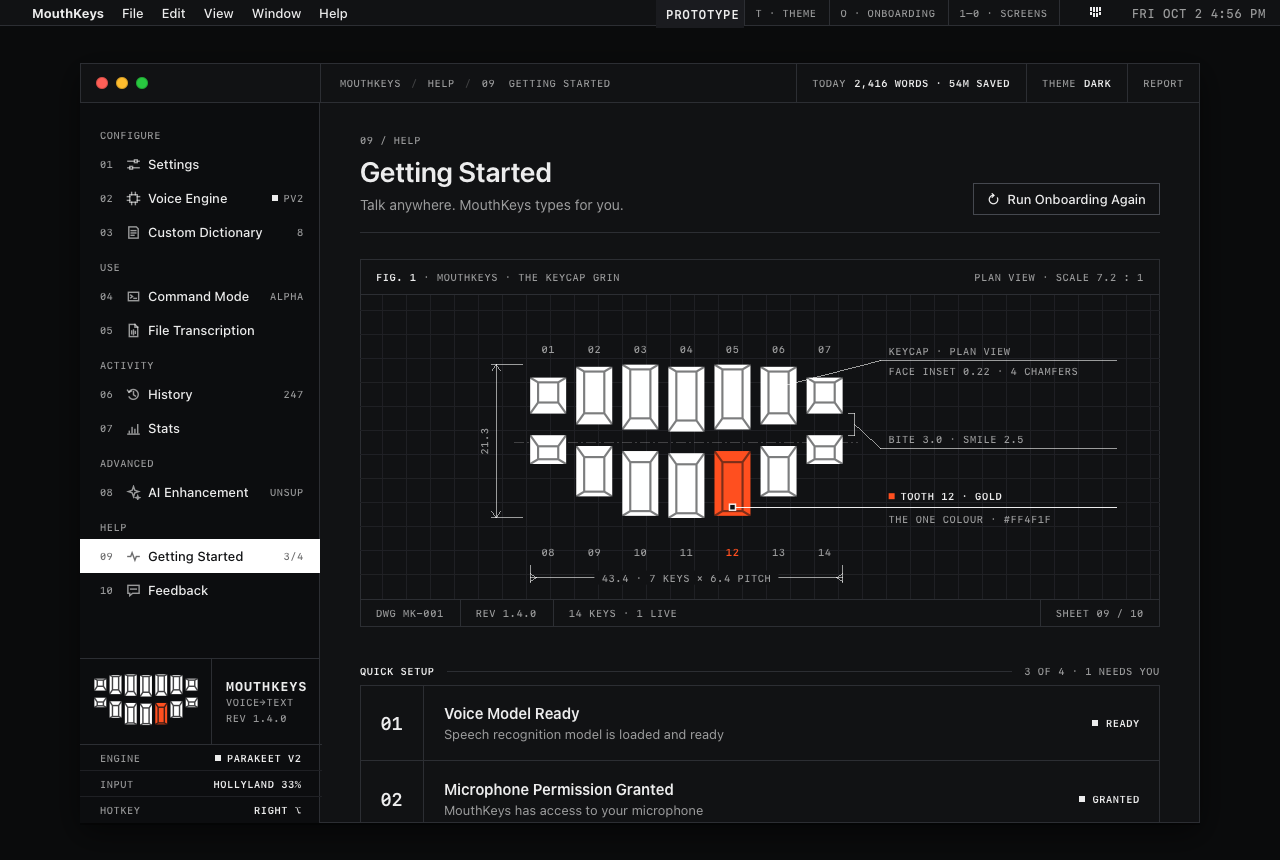
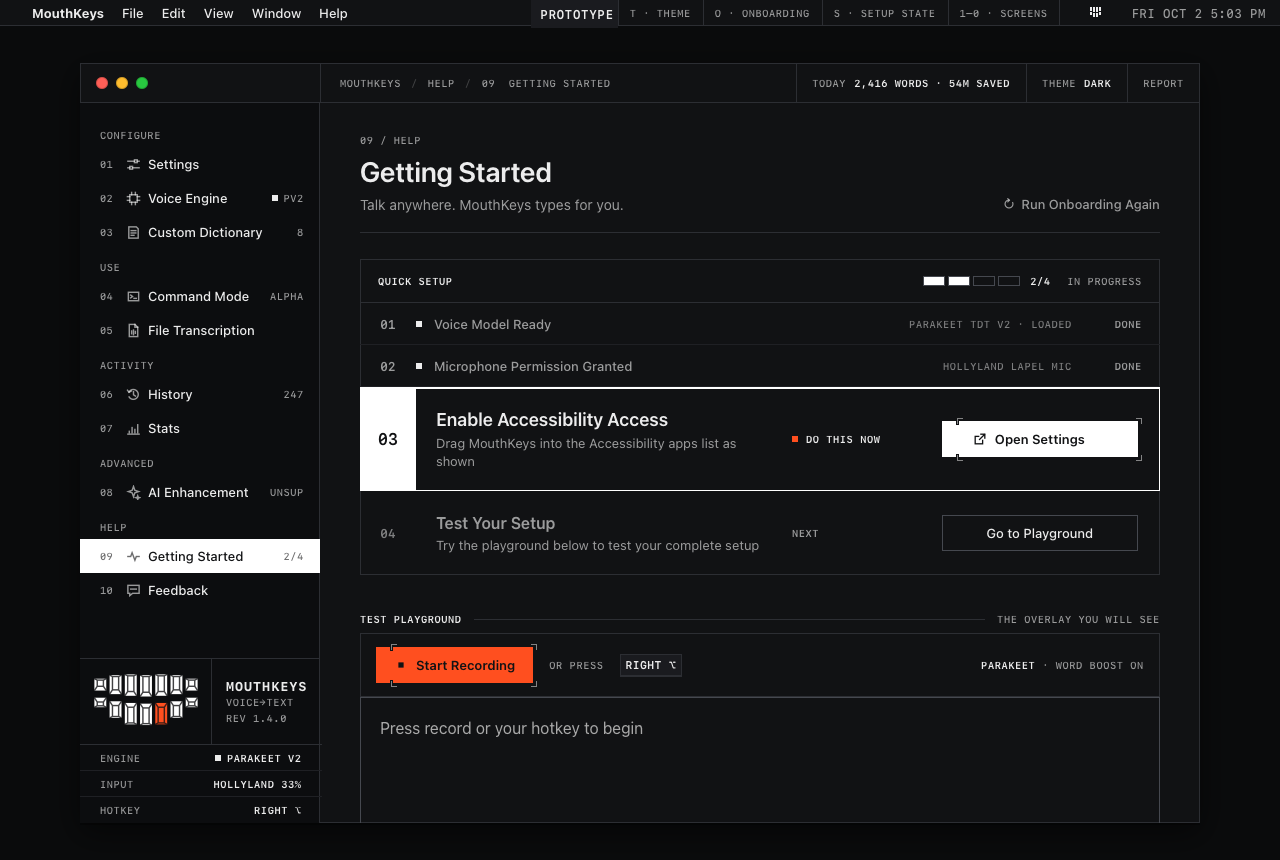
Design: Getting Started is Quick Setup, actionable (round 3)
Atin: the page had too much on it; Quick Setup must lead and feel
actionable, and Fig. 1 should go elsewhere.

- Quick Setup sits above the fold: done steps collapse to one quiet
  line, the step to do now is outlined with an inverted number, DO THIS
  NOW and its action bracketed at rest; later steps wait with an
  outlined button; a 4-cell progress readout. Fresh install reads
  "Welcome to MouthKeys"; all done shows a one-line you're-set row.
- Then the playground with the live overlay pill. How to Use is cut.
- Fig. 1 moved to the wizard Welcome step (already there) and an About
  section at the foot of Feedback. The sidebar stamp stays.
- Prototype: S cycles the setup state; shots for fresh, in progress and
  all done in both themes.

diff --git a/design/app-signal/index.html b/design/app-signal/index.html
@@ -706,6 +706,46 @@ input { font: inherit; color: inherit; border-radius: 0; outline: none; }
 .menu .mh .mh-mark .grin { width: 26px; height: auto; }
 .hist { grid-template-columns: 360px minmax(0, 1fr); }
 
+/* =====================================================================================
+   QUICK SETUP (round 3): actionable. Done steps collapse to one quiet line; the step to do
+   now is outlined in ink with its action bracketed at rest; later steps wait with an outlined button.
+   ===================================================================================== */
+.setup { box-shadow: inset 0 0 0 1px var(--rule); margin-bottom: 34px; }
+.setup > header { height: 44px; padding: 0 18px; display: flex; align-items: center; justify-content: space-between; box-shadow: inset 0 -1px 0 var(--rule); font: 500 10px/1 var(--mono); letter-spacing: .06em; text-transform: uppercase; color: var(--text-2); }
+.setup > header b { color: var(--text); font-weight: 600; }
+.prog4 { display: inline-flex; align-items: center; gap: 10px; }
+.prog4 .cells { display: inline-flex; gap: 3px; }
+.prog4 .cells i { width: 22px; height: 10px; box-shadow: inset 0 0 0 1px var(--edge); }
+:root:not([data-theme="light"]) .prog4 .cells i { box-shadow: inset 0 0 0 1px #45484F; }
+.prog4 .cells i.f { background: var(--ink); box-shadow: none; }
+.srow { display: grid; align-items: center; box-shadow: inset 0 -1px 0 var(--rule-soft); }
+.srow:last-child { box-shadow: none; }
+.srow .n { font: 600 12px/1 var(--mono); color: var(--text-2); text-align: center; }
+.srow .s { font: 600 10px/1 var(--mono); letter-spacing: .06em; text-transform: uppercase; color: var(--text-2); display: inline-flex; align-items: center; gap: 8px; }
+.srow.done { grid-template-columns: 56px 18px 1fr auto 72px; height: 42px; color: var(--text-2); }
+.srow.done .t { font: 500 13px/1 var(--font); color: var(--text-2); }
+.srow.done .m { font: 500 10px/1 var(--mono); letter-spacing: .06em; text-transform: uppercase; color: var(--text-dim); padding-right: 16px; }
+.srow.done .s { justify-content: flex-end; padding-right: 18px; }
+.srow.todo { grid-template-columns: 56px 1fr 128px 240px; min-height: 84px; }
+.srow.todo .lbl { font: 600 16px/21px var(--font); color: var(--text); }
+.srow.todo .help { margin-top: 3px; font: 400 13px/18px var(--font); color: var(--text-2); }
+.srow.todo .b { padding: 16px 16px 16px 0; }
+.srow.todo .a { display: flex; justify-content: flex-end; padding-right: 22px; }
+.srow.todo .a .btn { min-width: 196px; }
+.srow.todo .a .btn2 { min-width: 196px; height: 36px; }
+.srow.todo:not(.now) .lbl { color: var(--text-2); }
+.srow.todo:not(.now) .n { color: var(--text-dim); }
+.srow.now { background: var(--surface); box-shadow: inset 0 0 0 1.5px var(--ink); min-height: 104px; }
+.srow.now .n { align-self: stretch; display: grid; place-items: center; background: var(--inv-bg); color: var(--inv-fg); font-size: 16px; }
+.srow.now .lbl { font-size: 18px; line-height: 23px; }
+.srow.now .b { padding-left: 20px; }
+.srow.now .s { color: var(--text); }
+.srow.todo:not(.now) .b { padding-left: 20px; }
+.srow.fin { grid-template-columns: 56px 1fr auto; height: 64px; padding-right: 18px; }
+.srow.fin .n svg { width: 16px; height: 16px; color: var(--text); }
+.srow.fin .t { font: 500 15px/1 var(--font); color: var(--text); display: inline-flex; align-items: center; gap: 8px; }
+.setup.all > header .prog4 b { color: var(--text); }
+
 </style>
 </head>
 <body>
@@ -715,6 +755,7 @@ input { font: inherit; color: inherit; border-radius: 0; outline: none; }
   <span class="tag">Prototype</span>
   <button id="proto-theme">T · Theme</button>
   <button data-wiz-open>O · Onboarding</button>
+  <button id="proto-setup">S · Setup state</button>
   <span>1–0 · Screens</span>
 </div><button class="mb-mark" title="MouthKeys" aria-label="MouthKeys menu"></button><span class="clock"></span></div>
 </div>
@@ -1037,34 +1078,46 @@ const ovRef = (o = {}) => `
 function appIconC11() { return '<svg width="16" height="16" viewBox="0 0 20 20" style="display:block"><rect width="20" height="20" rx="4.5" fill="#0D0F14"/><rect x="0.5" y="0.5" width="19" height="19" rx="4" fill="none" stroke="rgba(255,255,255,0.18)"/><path d="M5.6 6.8 L8.8 10 L5.6 13.2" fill="none" stroke="#E8EAF0" stroke-width="1.6" stroke-linecap="round" stroke-linejoin="round"/><path d="M10.4 13.2 H14.4" stroke="#E8EAF0" stroke-width="1.6" stroke-linecap="round"/></svg>'; }
 
 // =================================================================================== 09 GETTING STARTED
+// Quick Setup: four steps from WelcomeView. state = how many are done, in order (0 fresh install ... 4 all done).
+const SETUP = [
+  { todo: "Download Voice Model", todoHelp: "Download the AI model for offline voice transcription (~500MB)", done: "Voice Model Ready", doneMeta: "Parakeet TDT v2 · loaded", act: "Go to Voice Engine", attr: 'data-go="engine"', icon: "down" },
+  { todo: "Grant Microphone Permission", todoHelp: "Allow MouthKeys to access your microphone for voice input", done: "Microphone Permission Granted", doneMeta: "Hollyland Lapel Mic", act: "Grant Access", icon: "mic" },
+  { todo: "Enable Accessibility Access", todoHelp: "Drag MouthKeys into the Accessibility apps list as shown", done: "Accessibility Access Enabled", doneMeta: "Typing into apps", act: "Open Settings", icon: "ext" },
+  { todo: "Test Your Setup", todoHelp: "Try the playground below to test your complete setup", done: "Setup Tested Successfully", doneMeta: "Playground", act: "Go to Playground", attr: 'onclick="document.getElementById(\'play\').scrollIntoView({behavior:\'smooth\'})"', icon: "arrowR" },
+];
+function setupHTML(n) {
+  const cells = SETUP.map((_, i) => `<i class="${i < n ? "f" : ""}"></i>`).join("");
+  const rows = SETUP.map((st, i) => {
+    const ix = String(i + 1).padStart(2, "0");
+    if (i < n) return `<div class="srow done"><span class="n">${ix}</span><i class="sq ink"></i><span class="t">${st.done}</span><span class="m">${st.doneMeta}</span><span class="s">Done</span></div>`;
+    const now = i === n;
+    return `<div class="srow todo${now ? " now" : ""}"><span class="n">${ix}</span><div class="b"><div class="lbl">${st.todo}</div><div class="help">${st.todoHelp}</div></div>
+      <span class="s">${now ? '<i class="sq"></i>Do this now' : "Next"}</span>
+      <span class="a">${now ? btn(st.act, { icon: st.icon, attr: st.attr || "" }) : btn2(st.act, { attr: st.attr || "" })}</span></div>`;
+  }).join("");
+  const all = n >= SETUP.length;
+  return `<div class="setup${all ? " all" : ""}">
+    <header><span><b>Quick Setup</b></span><span class="prog4"><span class="cells">${cells}</span><b>${n}/4</b>&nbsp;${all ? "Ready" : n === 0 ? "Not started" : "In progress"}</span></header>
+    ${rows}
+    ${all ? `<div class="srow fin"><span class="n">${G.check}</span><span class="t">You're set. Press <span class="cap">Right ⌥</span> anywhere and start talking.</span><span></span></div>` : ""}
+  </div>`;
+}
 function sStart() {
-  const step = (n, cls, lbl, help, st, act) => `<div class="step ${cls}"><div class="n">${n}</div><div class="b"><div class="lbl">${lbl}</div><div class="help">${help}</div></div><div class="r">${act || ""}${st}</div></div>`;
-  return head("09 / Help", "Getting Started", "Talk anywhere. MouthKeys types for you.", btn2("Run Onboarding Again", { icon: "reprocess", attr: "data-wiz-open" })) +
-    `<div class="box fig"><header><span><b>Fig. 1</b> · MouthKeys · the keycap grin</span><span>Plan view · scale 7.2 : 1</span></header><div class="dwg">${grinDrawing({ w: 798, h: 304, cx: 326, s: 7.2 })}</div><footer><span>DWG MK-001</span><span>Rev 1.4.0</span><span class="grow">14 keys · 1 live</span><span>Sheet 09 / 10</span></footer></div>` +
-    sec("Quick Setup", `<div class="steps">
-      ${step("01", "done", "Voice Model Ready", "Speech recognition model is loaded and ready", stat("Ready"))}
-      ${step("02", "done", "Microphone Permission Granted", "MouthKeys has access to your microphone", stat("Granted"))}
-      ${step("03", "next", "Enable Accessibility Access", "Drag MouthKeys into the Accessibility apps list as shown", stat("Needed", ""), btn("Open Settings", { icon: "ext" }))}
-      ${step("04", "", "Test Your Setup", "Try the playground below to test your complete setup", stat("Pending", "off", true), btn2("Go to Playground", { attr: 'onclick="document.getElementById(\'play\').scrollIntoView({behavior:\'smooth\'})"' }))}
-    </div>`, { r: "3 of 4 · 1 needs you" }) +
+  return `<div class="head"><div><div class="placard">09 / Help</div><h1 id="gs-title">Getting Started</h1><p>Talk anywhere. MouthKeys types for you.</p></div><div class="act">${tbtn("Run Onboarding Again", { icon: "reprocess", attr: "data-wiz-open" })}</div></div>` +
+    `<div id="setup-slot">${setupHTML(2)}</div>` +
     sec("Test Playground", `<div class="play" id="play">
       <div style="display:flex;align-items:center;gap:16px;padding:14px 16px;box-shadow:inset 0 -1px 0 var(--rule)">
         ${btn("Start Recording", { live: true, icon: "rec", cls: "rec-btn", b: "Stop Recording", bicon: "stop" })}
-        <span class="placard">Hotkey</span>${caps(["Right ⌥"])}
+        <span class="placard">or press</span>${caps(["Right ⌥"])}
         <span style="flex:1"></span>
-        <span class="placard"><b>Parakeet</b> · word boost on · 6 words</span>
+        <span class="placard"><b>Parakeet</b> · word boost on</span>
       </div>
       <textarea class="area" id="play-area" placeholder="Press record or your hotkey to begin"></textarea>
       <div style="display:flex;align-items:center;gap:18px;padding:10px 16px;box-shadow:inset 0 1px 0 var(--rule)">
-        ${tbtn("Copy Text", { icon: "copy" })}${tbtn("Clear &amp; Test Again", { icon: "reprocess" })}<span style="flex:1"></span><span class="placard">Click record, speak, and see your transcription</span>
+        ${tbtn("Copy Text", { icon: "copy" })}${tbtn("Clear &amp; Test Again", { icon: "reprocess" })}<span style="flex:1"></span><span class="placard">Speak, stop, and the text lands here</span>
       </div>
     </div>
-    <div style="margin-top:14px">${ovRef()}</div>`, { r: "Overlay reference below" }) +
-    sec("How to Use", `<div class="steps">
-      ${step("A", "", "Start Recording", "Press your hotkey (default: Right Option/Alt) or click the button", caps(["Right ⌥"]))}
-      ${step("B", "", "Speak Clearly", "Speak naturally - works best in quiet environments", "")}
-      ${step("C", "", "Auto-Type Result", "Transcription is automatically typed into your focused app", '<span class="placard">c11 · Ghostty · any field</span>')}
-    </div>`);
+    <div style="margin-top:14px">${ovRef()}</div>`, { r: "The overlay you will see" });
 }
 
 // =================================================================================== 01 SETTINGS
@@ -1364,7 +1417,8 @@ function sFeedback() {
     sec("Feedback", `<textarea class="area" style="min-height:200px" placeholder="Share your thoughts, report bugs, or suggest features..."></textarea>
       <div class="rows">${row("Include app and macOS version", '<span class="mono" style="font-size:12px">MOUTHKEYS 1.4.0 (412) · MACOS 26.1 · APPLE M4 MAX</span>', tog(true))}</div>
       <div style="display:flex;align-items:center;gap:18px;margin-top:8px">${btn("Open GitHub Issue", { icon: "ext", lg: 1 })}<span style="font:400 13px/18px var(--font);color:var(--text-2)">Opens a prefilled issue in your browser. Nothing is sent until you submit it on GitHub.</span></div>`) +
-    sec("Credit", `<div class="callout"><i></i><div><span class="placard"><b>Built on FluidVoice</b> · altic-dev</span><p>MouthKeys is built on FluidVoice by altic-dev.</p><p>FluidVoice is the open-source dictation app this fork comes from. If MouthKeys is useful to you, consider supporting its original author.</p><div style="display:flex;gap:12px;margin-top:12px">${btn2("FluidVoice", { icon: "ext" })}${btn2("Sponsor FluidVoice", { icon: "ext" })}</div></div></div>`);
+    sec("Credit", `<div class="callout"><i></i><div><span class="placard"><b>Built on FluidVoice</b> · altic-dev</span><p>MouthKeys is built on FluidVoice by altic-dev.</p><p>FluidVoice is the open-source dictation app this fork comes from. If MouthKeys is useful to you, consider supporting its original author.</p><div style="display:flex;gap:12px;margin-top:12px">${btn2("FluidVoice", { icon: "ext" })}${btn2("Sponsor FluidVoice", { icon: "ext" })}</div></div></div>`) +
+    sec("About", `<div class="box fig"><header><span><b>Fig. 1</b> · MouthKeys · the keycap grin</span><span>Plan view · scale 6.4 : 1</span></header><div class="dwg">${grinDrawing({ w: 798, h: 282, cx: 300, s: 6.4 })}</div><footer><span>DWG MK-001</span><span>Rev 1.4.0</span><span class="grow">MIT · github.com/BenevolentFutures/MouthKeys</span><span>Sheet 10 / 10</span></footer></div>`);
 }
 
 // =================================================================================== WIZARD
@@ -1732,11 +1786,13 @@ mountScreens();
 
   // ---------- screenshot hooks (used by shoot.py) ----------
   window.PROTO = {
-    shots: () => [...$$(".nav").map((n) => n.dataset.go), "wizard-1", "wizard-2", "wizard-3", "wizard-4", "wizard-5", "menubar", "history-empty", "dict-empty", "hotkey-capture"],
+    shots: () => [...$$(".nav").map((n) => n.dataset.go), "start-fresh", "start-done", "wizard-1", "wizard-2", "wizard-3", "wizard-4", "wizard-5", "menubar", "history-empty", "dict-empty", "hotkey-capture"],
     shot(name, theme) {
       themeOverride = theme; applyTheme(); closeMenus(); wizOpen(false);
       $$(".hk.capturing").forEach((h) => h.classList.remove("capturing")); capturing = null;
       $$("[data-empty]").forEach((x) => (x.hidden = x.dataset.empty === "on"));
+      window.MK_SETUP && MK_SETUP(name === "start-fresh" ? 0 : name === "start-done" ? 4 : 2);
+      if (name === "start-fresh" || name === "start-done") { go("start"); return; }
       if (name.startsWith("wizard-")) { go("start"); wstep = +name.split("-")[1] - 1; wizOpen(true); return; }
       if (name === "menubar") { go("start"); $(".mb-mark").click(); const mi = $('#mbmenu .mi[data-sub="mic"]'); mi.dispatchEvent(new MouseEvent("mouseover", { bubbles: true })); mi.classList.add("is-hover"); return; }
       if (name === "history-empty" || name === "dict-empty") { const id = name === "history-empty" ? "history" : "dict"; go(id); $$(`#s-${id} [data-empty]`).forEach((x) => (x.hidden = x.dataset.empty !== "on")); if (id === "dict") { const e = $('#s-dict [data-empty="on"]'); const pane = $(".pane"); pane.scrollTop = e.getBoundingClientRect().top - pane.getBoundingClientRect().top - 120; } return; }
@@ -1758,6 +1814,18 @@ mountScreens();
     const lvl = v < 0.12 ? 0 : v < 0.5 ? 1 : 2;
     if (lvl !== lastJaw) { lastJaw = lvl; setJaw(lvl); }
   };
+
+  // ---------- Getting Started setup state (prototype: S cycles 0..4 steps done) ----------
+  let setupN = 2;
+  function setSetup(n) {
+    setupN = (n + 5) % 5;
+    $("#setup-slot").innerHTML = setupHTML(setupN); bracketize($("#setup-slot"));
+    $("#gs-title").textContent = setupN === 0 ? "Welcome to MouthKeys" : "Getting Started";
+    const meta = $('.nav[data-go="start"] .n'); if (meta) meta.textContent = setupN + "/4";
+  }
+  window.MK_SETUP = setSetup;
+  document.addEventListener("keydown", (e) => { if ((e.key === "s" || e.key === "S") && !/input|textarea/i.test(e.target.tagName)) setSetup(setupN + 1); });
+  document.addEventListener("click", (e) => { if (e.target.closest("#proto-setup")) setSetup(setupN + 1); });
 
   // ---------- boot ----------
   $("#stamp-mark").innerHTML = grinSVG({ px: 108, live: true });

diff --git a/design/app-signal/DIRECTION.md b/design/app-signal/DIRECTION.md
@@ -4,7 +4,7 @@
 
 Prototype: [`index.html`](index.html), self-contained (double-click, or `./serve.sh` for Safari, which renders SF Mono). Screenshots of every screen in both themes: [`shots/`](shots/), regenerated with `python3 shoot.py` (headless WebKit, nothing on screen).
 
-Keys: **T** toggles dark and light (the page follows `prefers-color-scheme` until you press it), **O** opens the first-run wizard (arrows step through it), **1–0** jump to the ten sidebar screens, **Esc** closes menus. The menu bar mark (top right) opens the status menu. Press **Start Recording** on Getting Started to drive the overlay reference; every live grin opens its jaw with the voice.
+Keys: **T** toggles dark and light (the page follows `prefers-color-scheme` until you press it), **O** opens the first-run wizard (arrows step through it), **S** cycles Getting Started's setup state (0 to 4 steps done), **1–0** jump to the ten sidebar screens, **Esc** closes menus. The menu bar mark (top right) opens the status menu. Press **Start Recording** on Getting Started to drive the overlay reference; every live grin opens its jaw with the voice.
 
 ## Thesis, applied to the window
 
@@ -43,7 +43,7 @@ Main window, sidebar order and names as `ContentView.swift`:
 | 06 | Activity | History | Full-bleed list and detail: overlay-style index column, NOT PASTED marker, a title-block strip of facts, large reading text. Empty state included. |
 | 07 | Activity | Stats | Four KPI cells, words-per-day bars (today in orange), milestone grid, insights and records tables. |
 | 08 | Advanced | AI Enhancement | Alone under Advanced, opening with the unsupported note verbatim. Providers and Advanced Prompts as tabs. |
-| 09 | Help | Getting Started | Quick Setup as four numbered steps, the playground, the round 6 overlay pill live beside it, How to Use. |
+| 09 | Help | Getting Started | Quick Setup first and actionable (round 3): done steps collapse to one quiet line, the step to do now is outlined in ink with an inverted number, DO THIS NOW and its action bracketed at rest; later steps wait with an outlined button; a 4-cell progress readout. Before any model it reads "Welcome to MouthKeys". Then the playground with the live overlay pill. Nothing else. |
 | 10 | Help | Feedback | Text, version toggle, Open GitHub Issue; the FluidVoice credit. |
 
 Also: the first-run wizard (Welcome, Language, Voice Engine, Enable Access, Try MouthKeys, ending in Finish Setup) as the window's first state with a step rail, the status menu with its microphone submenu, the titlebar (Today, Theme, Report) and a hotkey capture state.
@@ -57,8 +57,8 @@ Atin: "keeping this engineering vibe, but leaning into the idea of MouthKeys as 
 Where it appears, prominent on core screens and nowhere else:
 
 1. **Corner stamp, bottom-left of the sidebar, always.** The drawing's title block: the grin (128 px drawing, live jaw) beside the MOUTHKEYS wordmark and revision, over the engine / input / hotkey cells.
-2. **Getting Started, Fig. 1.** The grin as a dimensioned engineering drawing on the sheet grid: teeth numbered 01–14, overall width and height dimensions, a centre line through the bite, callouts for the keycap plan view, the bite and smile, and TOOTH 12 (the gold tooth), with a DWG / REV / SHEET title strip.
-3. **Wizard, Welcome step.** The same drawing as the first thing a new user sees, above "Just speak."
+2. **Fig. 1, on the wizard's Welcome step and in Feedback's About section** (moved off Getting Started in round 3: "too much stuff"). The grin as a dimensioned engineering drawing on the sheet grid: teeth numbered 01–14, overall width and height dimensions, a centre line through the bite, callouts for the keycap plan view, the bite and smile, and TOOTH 12 (the gold tooth), with a DWG / REV / SHEET title strip.
+3. **Getting Started carries no logo**: it is a working screen, setup and testing only. The stamp in the corner is enough.
 4. **Menu bar.** The fake menu bar shows the real menu bar mark (grin, status square, hover bracket); the menu header carries the small-master grin beside MOUTHKEYS.
 5. **Empty states** (History, Custom Dictionary). A quiet 1 px outline grin, gold tooth outlined in orange.
 
@@ -93,7 +93,8 @@ Where it appears, prominent on core screens and nowhere else:
 3. Custom Dictionary popovers became inline tables. (Atin, round 2)
 4. History detail shows delivery (Pasted / NOT PASTED) to match the overlay card; AI Processed moves to the details line. The detail actions are the app's own: Copy, Audio, Export Pair, Delete (icon). (Atin, round 2)
 5. The wizard is the window's first state with a step rail, not a cinematic backdrop. (Atin, round 2)
-6. Round 2, ours, not yet reviewed: the grin is tileless and themed (print in light); the stamp lives bottom-left; Fig. 1 on Getting Started and the Welcome step; outline grins only in the two empty states.
+6. Round 2, ours, not yet reviewed: the grin is tileless and themed (print in light); the stamp lives bottom-left; outline grins only in the two empty states.
+7. Getting Started is Quick Setup plus the playground, nothing else; Fig. 1 lives on the Welcome step and in Feedback's About. (Atin, round 3)
 
 ## Unsure
 
